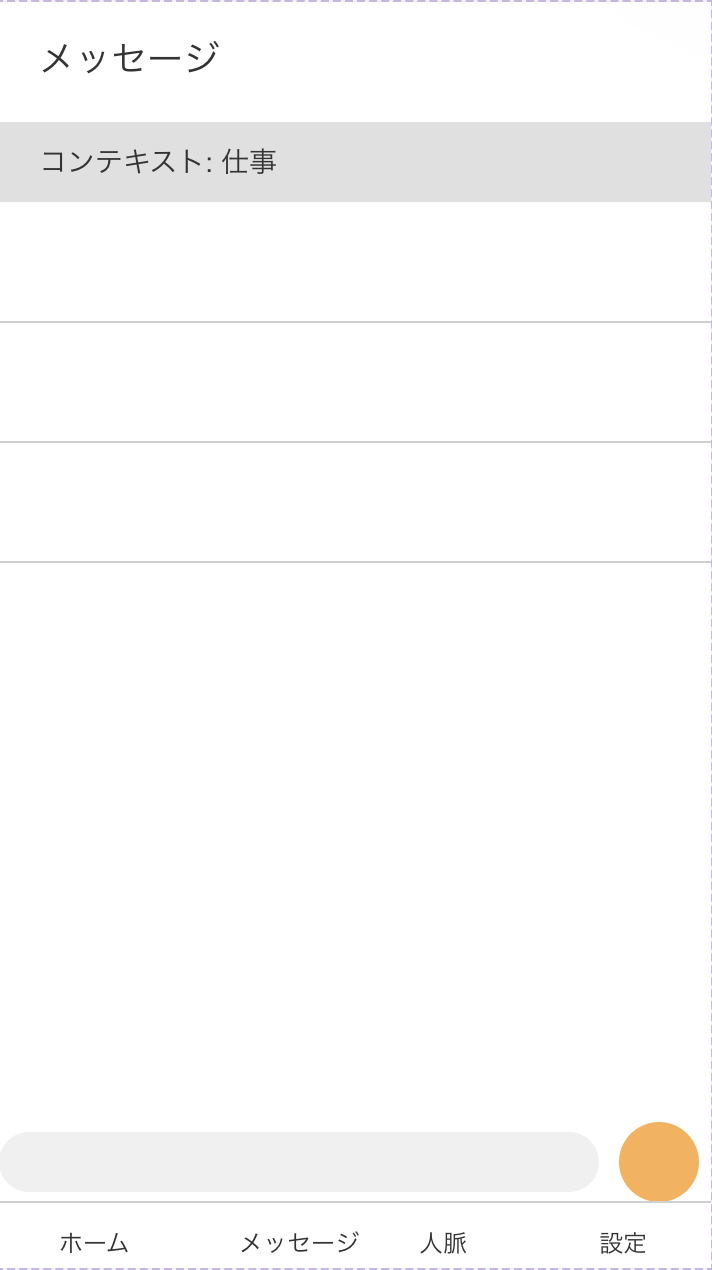
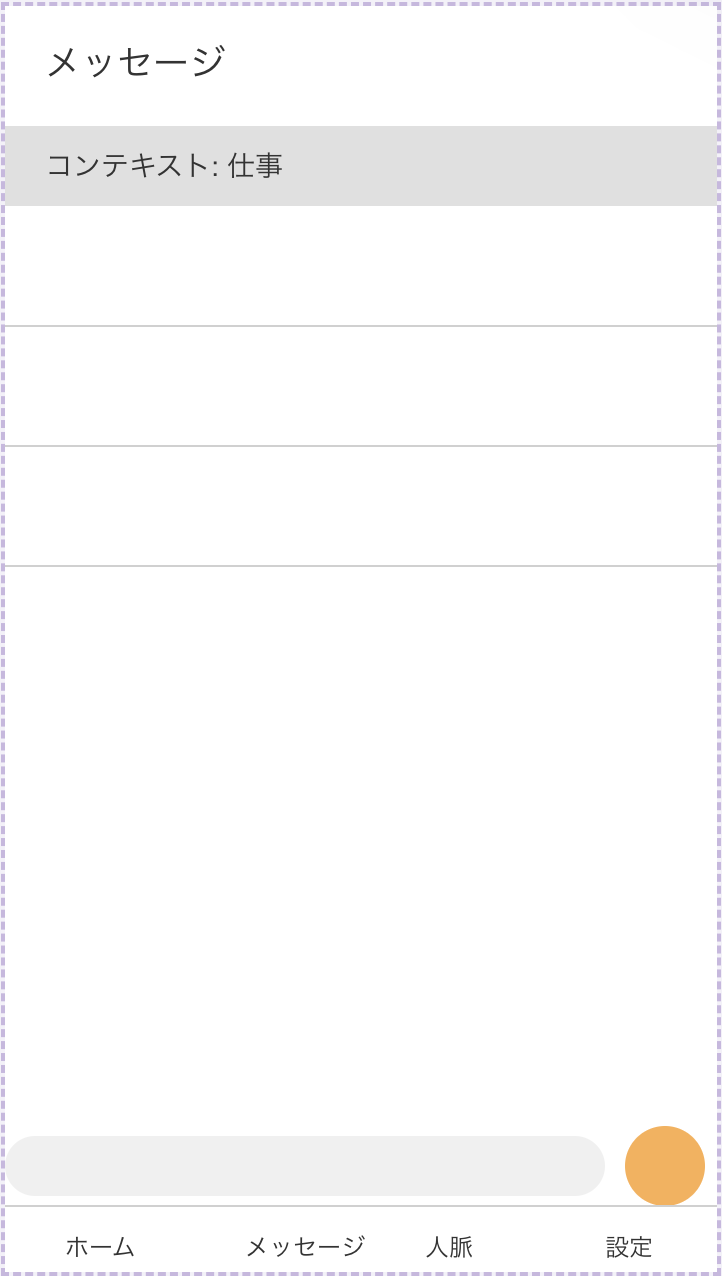
画面デザインの一貫性の話の補足を追加

Changed region(s): [[0.0, 0.0, 1.0, 1.0], [0.0618, 0.0921, 0.2781, 0.1535], [0.309, 0.0921, 0.4017, 0.1535]]

diff --git a/uiux_book.md b/uiux_book.md
@@ -714,7 +714,52 @@ graph LR
 - 一貫性の確保：画面間の遷移や要素の配置を統一
 - プライバシー強化：プライバシー関連の設定や情報をより分かりやすく配置
 
-このプロセスを通じて、LinkedPalの核となる「プライバシー保護」と「コンテキストベースのコミュニケーション」の概念を視覚的に表現し、ユーザーにとって使いやすいアプリケーションの基礎を築きます。
+### 一貫性の確保の例：ナビゲーションバーの統一
+
+現状のデザインでは、ナビゲーションバーの位置が画面によって異なっています。これを統一することで、ユーザーエクスペリエンスを向上させることができます。
+
+改善前：
+- ホーム画面：ナビゲーションバーが上部に配置
+- プロフィール画面：ナビゲーションバーが下部に配置
+- メッセージ画面：ナビゲーションバーが下部に配置
+
+改善後：全ての画面でナビゲーションバーを下部に統一
+
+例として、ホーム画面のナビゲーションバーを下部に移動した改善版を示します：
+
+<img src="img/uiux4.png" width="60%" />
+
+```svg
+<svg width="360" height="640" xmlns="http://www.w3.org/2000/svg">
+  <rect width="360" height="640" fill="#f0f0f0"/>
+  
+  <!-- ヘッダー -->
+  <rect y="0" width="360" height="60" fill="#ffffff"/>
+  <text x="20" y="35" font-family="Arial" font-size="18" fill="#333333">LinkedPal</text>
+  <circle cx="320" cy="30" r="15" fill="#e0e0e0"/>
+  
+  <!-- 検索バー -->
+  <rect x="10" y="70" width="340" height="40" rx="20" fill="#ffffff"/>
+  <text x="30" y="95" font-family="Arial" font-size="14" fill="#999999">検索...</text>
+  
+  <!-- 投稿 -->
+  <rect x="10" y="120" width="340" height="100" fill="#ffffff"/>
+  <rect x="10" y="230" width="340" height="100" fill="#ffffff"/>
+  <rect x="10" y="340" width="340" height="100" fill="#ffffff"/>
+  
+  <!-- ナビゲーションバー（下部に移動） -->
+  <rect y="600" width="360" height="40" fill="#ffffff"/>
+  <line x1="0" y1="600" x2="360" y2="600" stroke="#d0d0d0" stroke-width="1"/>
+  <text x="30" y="625" font-family="Arial" font-size="12" fill="#333333">🏠</text>
+  <text x="120" y="625" font-family="Arial" font-size="12" fill="#333333">👥</text>
+  <text x="210" y="625" font-family="Arial" font-size="12" fill="#333333">✉</text>
+  <text x="300" y="625" font-family="Arial" font-size="12" fill="#333333">👤</text>
+</svg>
+```
+
+この改善により、全ての画面で一貫したレイアウトが実現され、ユーザーの操作性が向上します。同様に、他の要素についても一貫性を確保することで、直感的で使いやすいインターフェースを実現できます。
+
+こ右下プロセスを通じて、LinkedPalの核となる「プライバシー保護」と「コンテキストベースのコミュニケーション」の概念を視覚的に表現し、ユーザーにとって使いやすいアプリケーションの基礎を築きます。
 
 次のステップでは、これらのワイヤーフレームを基に、より詳細なインタラクションデザインを行っていきます。
 
@@ -1472,7 +1517,58 @@ LinkedPalのデザインレビューとイテレーションの具体例：
 
 最終的に承認されたデザインは、開発チームに引き継がれ、実装フェーズへと移行します。デザインチームは実装中も開発チームと密に連携し、デザインの意図が正確に反映されるようサポートしていきます。
 
-# Appendix A: デザインシステムの構築と管理
+
+Appendix A: LinkedPal 画面一覧と遷移図
+
+本Appendixでは、LinkedPalアプリケーションの全画面のワイヤーフレームと、それらの画面間の遷移を示します。この資料は、UI/UXデザインの全体像を把握するとともに、バックエンドおよびフロントエンド開発の際の参照として活用することができます。
+
+A.1 画面遷移図
+
+[ここに画面遷移を示すfigma図を挿入]
+
+A.2 画面一覧
+
+1. スプラッシュ画面
+   [SVG画像]
+   
+2. ログイン画面
+   [SVG画像]
+
+3. ホーム画面
+   [SVG画像]
+
+4. プロフィール画面
+   [SVG画像]
+
+5. メッセージ一覧画面
+   [SVG画像]
+
+6. メッセージ詳細画面
+   [SVG画像]
+
+7. 人脈一覧画面
+   [SVG画像]
+
+8. 人脈追加画面
+   [SVG画像]
+
+9. プライバシー設定画面
+   [SVG画像]
+
+10. 投稿作成画面
+    [SVG画像]
+
+
+各画面の説明：
+1. スプラッシュ画面: アプリ起動時に表示される初期画面...
+2. ログイン画面: ユーザー認証を行う画面...
+
+[以下、各画面について簡単な説明を記述]
+
+この画面一覧と遷移図は、LinkedPalの全体的なユーザーフローを示しています。バックエンドAPIの設計やフロントエンド実装の際に、この資料を参照することで、一貫性のあるユーザー体験の実現に役立てることができます。
+```
+
+# Appendix B: デザインシステムの構築と管理
 
 1. デザインシステムの定義と重要性
    - コンポーネントライブラリとの違い
@@ -1508,7 +1604,7 @@ LinkedPalのデザインレビューとイテレーションの具体例：
    - セキュリティを視覚化するコンポーネント
    - 一貫したプライバシー設定UIの実現
 
-# Appendix B: デザイン倫理とプライバシー
+# Appendix C: デザイン倫理とプライバシー
 
 1. デザイン倫理の基本原則
    - ユーザーの利益を最優先する
